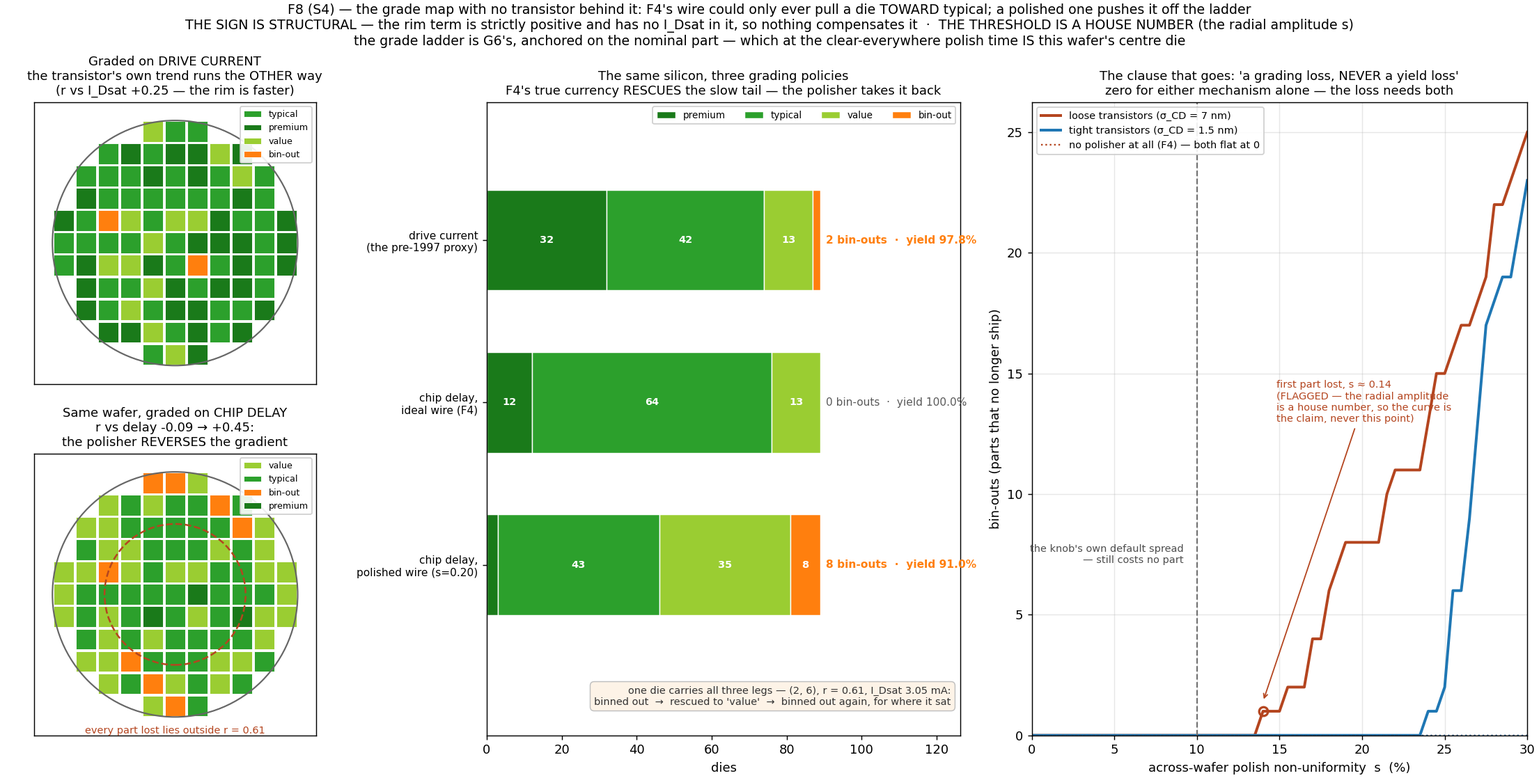
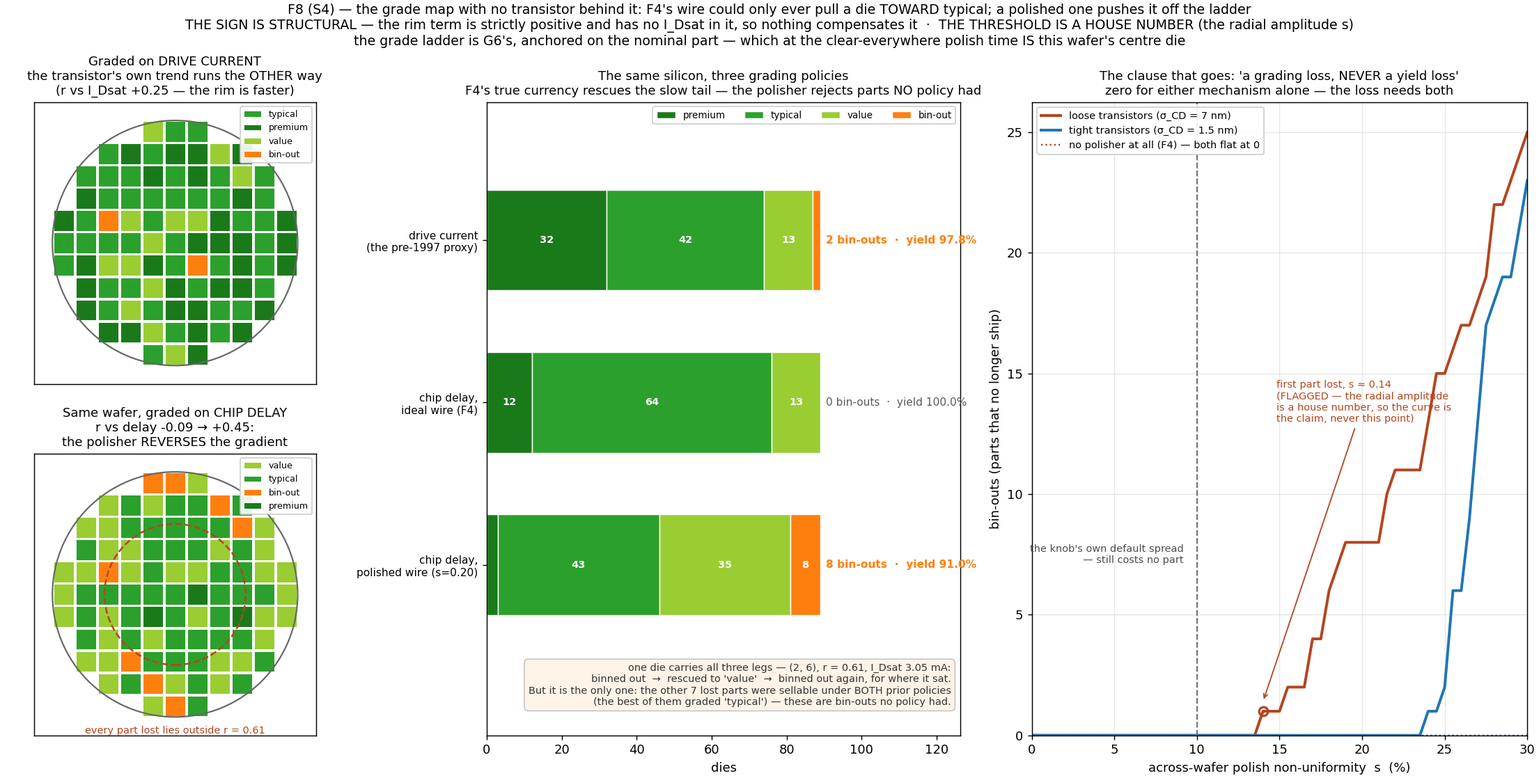
fix(fab-game,docs): F8-S4 — most of the loss is NOT F4's rescue being withdrawn
Correcting an overstatement in the previous commit, caught on review of the
slice's own probe data. The bolded claim "the polisher never rejects a fast
die; it withdraws the rescue from a slow one" is true of 1 of the 8 lost
parts. Under the old drive-current policy those 8 graded 6× value, 1× reject,
1× typical — so seven were sellable under BOTH prior policies, and one of them
was a typical part.

The real result is stronger than the one that was written: the polished wire
does not merely claw back the margin F4's common-mode wire gave the slow tail,
it creates bin-outs no grading policy had, out of parts the old policy called
good. Recorded as measured fields (n_lost_rescued_then_taken_back,
lost_prior_grades, best_prior_grade_lost) so the prose reads off the wafer.

Also corrected: "the intersection is what the polisher costs" stated a subset
as an identity — 37 dies are below nominal and 60 sit past r=0.61, so the loss
lives inside that intersection rather than being it.

test_the_polisher_never_rejects_a_fast_die_it_withdraws_a_rescue asserted only
"below nominal, out at the rim" under a name claiming the withdrawal. Split
into one test named for what it checks plus
test_most_of_the_loss_is_not_f4s_rescue_being_withdrawn, which pins the 1-vs-7
split, that the grades partition the loss, and that every lost part was
sellable under F4's currency.

Smaller fixes in the same pass: dropped an unused interconnect import; the
[…]

Changed region(s): [[0.3434, 0.8515, 0.6244, 0.9123], [0.3122, 0.0912, 0.6244, 0.1216]]

diff --git a/fab_game/demo_cmp_grading.py b/fab_game/demo_cmp_grading.py
@@ -30,10 +30,16 @@ that last column is the wafer yield the line reports. The wire now costs parts, 
 
 **Neither mechanism does it alone** — the F4-S4 shape one slice on. A *tight* transistor spread under the
 same polish loses nothing (0 bin-outs to ``s`` = 0.22); a *loose* spread with no polisher loses nothing
-either (F4 rescues both of its bin-outs). Only the two together lose parts, and every part lost was
-already a below-nominal transistor sitting out at the rim: **the polisher never rejects a fast die — it
-withdraws the rescue from a slow one.** Die ``(2, 6)`` carries the whole story alone: binned out under
-drive current, rescued to *value* by F4's ideal wire, rejected again by where it sat on the polisher.
+either (F4 rescues both of its bin-outs). Only the two together lose parts, and every part lost was a
+below-nominal transistor sitting out at the rim — though **neither condition selects them**: 37 dies are
+below nominal and 60 sit that far out, so the loss lives *inside* that intersection, not at it.
+
+**And it is not only F4's rescue being taken back.** Of the 8 parts lost, **1** was a bin-out under the
+drive-current policy too — that one is the rescue withdrawn, and die ``(2, 6)`` carries all three legs
+alone: binned out on drive current, rescued to *value* by F4's ideal wire, rejected again by where it sat
+on the polisher. The **other 7 were sellable under both prior policies**, and one of them
+(site ``(5, 10)``) was graded *typical*. So the polished wire does not merely claw back the margin F4's
+wire gave: **it creates bin-outs no grading policy had**, out of parts the old policy called good.
 
 **And it is not extra spread on top of the transistor's — it is the opposite sign.** The transistor has a
 weak radial trend of its own here (the focus bowl and the furnace's oxide trend leave the rim marginally
@@ -44,7 +50,7 @@ sit exactly where the transistor said the dies were fast.
 
 **The threshold is a house number, and is reported as one.** At the knob's default spread
 (``nonuniformity`` = 0.10) *no* part is lost even with the loose process — the first one goes at
-``s ≈ 0.13``. The *sign* is structural (a strictly positive, uncompensated term cannot rescue anything);
+``s ≈ 0.14``. The *sign* is structural (a strictly positive, uncompensated term cannot rescue anything);
 *where* it starts to bite rides the flagged radial amplitude, so the sweep panel draws the whole curve
 rather than quoting a number from one point on it.
 
@@ -66,7 +72,6 @@ from pathlib import Path
 import numpy as np
 
 from chip import cmp
-from chip import interconnect as ic
 
 from .pipeline import diagnose, run_line, wafer_yield
 from .recipe import CmpKnobs, DeviceKnobs, Recipe
@@ -125,6 +130,8 @@ class DemoResult:
     story_trail: str
     # The sweep — bin-outs vs the polish spread, for both process tightnesses (closed form, same calls).
     s_sweep: tuple[float, ...]
+    tight_sigma_nm: float                         # the two process tightnesses the curves are cut at
+    loose_sigma_nm: float
     rejects_loose: tuple[int, ...]
     rejects_tight: tuple[int, ...]
     rejects_loose_no_cmp: int                     # the F4 reference (flat, s-independent)
@@ -137,6 +144,9 @@ class DemoResult:
     first_reject_radius: float
     n_outside_first_reject_radius: int
     n_lost: int
+    n_lost_rescued_then_taken_back: int           # lost parts the drive-current policy had ALSO rejected
+    lost_prior_grades: dict                       # the lost parts' grades under the drive-current policy
+    best_prior_grade_lost: str                    # the highest grade the polisher took off the ladder
     # The wafer's speed gradient, before and after the polisher (the sign the transistor set).
     corr_r_idsat: float                           # radius vs drive current — the transistor's own trend
     corr_r_tau_f4: float                          # radius vs delay, ideal wire
@@ -252,6 +262,13 @@ def compute() -> DemoResult:
     #    parts on its own — the intersection does.
     lost = [d for d in w_f8.dies if d.bin == "reject"]
     r_first = min((d.radius_frac for d in lost), default=1.0)
+    # …and what the lost parts were worth BEFORE the polisher existed. Only the ones the drive-current
+    # policy had also rejected are "F4's rescue, taken back"; the rest are bin-outs no grading policy had.
+    prior = {}
+    for d in lost:
+        prior[b_i[d.site].bin] = prior.get(b_i[d.site].bin, 0) + 1
+    order = [b.label for b in SPEED_BINS.bins] + [SPEED_BINS.reject_label]
+    best_prior = min((g for g in prior), key=order.index, default=SPEED_BINS.reject_label)
 
     # 6. The wafer's speed gradient. The transistor has a weak radial trend of its OWN here (the focus
     #    bowl and the oxide trend leave the rim marginally faster), and it points the other way, so on the
@@ -270,7 +287,8 @@ def compute() -> DemoResult:
         yield_idsat=wafer_yield(w_idsat), yield_f4=wafer_yield(w_f4), yield_f8=wafer_yield(w_f8),
         story_site=story.site, story_radius=story.radius_frac, story_i_dsat_mA=story.i_dsat_mA,
         story_trail=diagnose(story),
-        s_sweep=S_SWEEP, rejects_loose=sweeps["loose"][0], rejects_tight=sweeps["tight"][0],
+        s_sweep=S_SWEEP, tight_sigma_nm=TIGHT_SIGMA, loose_sigma_nm=LOOSE_SIGMA,
+        rejects_loose=sweeps["loose"][0], rejects_tight=sweeps["tight"][0],
         rejects_loose_no_cmp=sweeps["loose"][1], rejects_tight_no_cmp=sweeps["tight"][1],
         first_loss_s_loose=_first_loss(sweeps["loose"][0]),
         first_loss_s_tight=_first_loss(sweeps["tight"][0]),
@@ -280,6 +298,8 @@ def compute() -> DemoResult:
         first_reject_radius=r_first,
         n_outside_first_reject_radius=sum(1 for d in w_f8.dies if d.radius_frac >= r_first),
         n_lost=len(lost),
+        n_lost_rescued_then_taken_back=prior.get(SPEED_BINS.reject_label, 0),
+        lost_prior_grades=prior, best_prior_grade_lost=best_prior,
         corr_r_idsat=_corr(radii, [d.i_dsat_mA for d in w_f8.dies]),
         corr_r_tau_f4=_corr([d.radius_frac for d in w_f4.dies], [d.delay_ps for d in w_f4.dies]),
         corr_r_tau_f8=_corr(radii, [d.delay_ps for d in w_f8.dies]),
@@ -313,12 +333,22 @@ def print_summary(r: DemoResult) -> None:
     print(f"     polisher, tight transistors       : {r.rejects_tight[r.s_sweep.index(r.s_shown)]} bin-outs "
           f"at s = {r.s_shown:.2f}")
     print(f"     both                              : {r.n_lost} bin-outs")
-    print(f"     → and every part lost was already below nominal AND out past r = "
-          f"{r.first_reject_radius:.2f}: "
-          f"{r.n_below_nominal} dies are below nominal, {r.n_outside_first_reject_radius} are out that far,")
-    print("       and the intersection is what the polisher costs. It never rejects a FAST die.\n")
+    print(f"     → every part lost was below nominal AND out past r = {r.first_reject_radius:.2f}, but "
+          f"neither condition selects them:")
+    print(f"       {r.n_below_nominal} dies are below nominal and {r.n_outside_first_reject_radius} sit "
+          f"that far out, so the loss lives INSIDE that intersection.")
+    print("       It never rejects a FAST die.\n")
 
-    print("  3. It is not extra spread on top of the transistor's — it is the OPPOSITE sign:")
+    grades = ", ".join(f"{n}× {g}" for g, n in sorted(r.lost_prior_grades.items(),
+                                                      key=lambda kv: -kv[1]))
+    print(f"  3. And it is not only F4's rescue being taken back. Under the OLD drive-current policy the "
+          f"{r.n_lost} lost parts graded: {grades}.")
+    print(f"     → {r.n_lost_rescued_then_taken_back} of them was the rescue withdrawn; the other "
+          f"{r.n_lost - r.n_lost_rescued_then_taken_back} were sellable under BOTH prior policies")
+    print(f"       (the best of them graded '{r.best_prior_grade_lost}'). The polished wire creates "
+          f"bin-outs NO grading policy had.\n")
+
+    print("  4. It is not extra spread on top of the transistor's — it is the OPPOSITE sign:")
     print(f"     radius vs drive current       : {r.corr_r_idsat:+.2f}  (the transistor's own trend — the "
           f"rim is marginally FASTER)")
     print(f"     radius vs delay, ideal wire   : {r.corr_r_tau_f4:+.2f}  (so the unpolished wafer is, if "
@@ -328,13 +358,13 @@ def print_summary(r: DemoResult) -> None:
     print("     → the parts it costs sit where the transistor said the dies were fast. Two radial")
     print("       signatures, opposite signs, and the one with no transistor in it wins.\n")
 
-    print(f"  4. The one die that carries it alone — site {r.story_site}, r = {r.story_radius:.2f}, "
+    print(f"  5. The one die that carries it alone — site {r.story_site}, r = {r.story_radius:.2f}, "
           f"I_Dsat {r.story_i_dsat_mA:.3f} mA:")
     print("     " + r.story_trail.replace("\n", "\n     ") + "\n")
 
     loose_first = "none in the sweep" if r.first_loss_s_loose is None else f"s ≈ {r.first_loss_s_loose:.2f}"
     tight_first = "none in the sweep" if r.first_loss_s_tight is None else f"s ≈ {r.first_loss_s_tight:.2f}"
-    print(f"  5. Where it starts to bite is a HOUSE NUMBER, so here is the whole curve, not a point:")
+    print(f"  6. Where it starts to bite is a HOUSE NUMBER, so here is the whole curve, not a point:")
     print(f"     loose process — first part lost at {loose_first};  tight process — {tight_first}.")
     print(f"     At the knob's own default (s = {S_HOUSE:.2f}) the polisher still costs NO part. The SIGN")
     print("     is structural (a strictly positive term with no I_Dsat in it cannot rescue anything);")

diff --git a/fab_game/tests/test_demo_cmp_grading.py b/fab_game/tests/test_demo_cmp_grading.py
@@ -83,15 +83,34 @@ def test_neither_mechanism_alone_loses_a_part(r):
     assert r.rejects_loose[i_shown] == r.n_lost > 0                    # both: parts lost
 
 
-def test_the_polisher_never_rejects_a_fast_die_it_withdraws_a_rescue(r):
-    """Every part lost was already below the nominal transistor AND out past the first-lost radius — and
-    neither condition selects them on its own (both counts are far larger than the loss)."""
+def test_the_polisher_never_rejects_a_fast_die_and_the_loss_sits_inside_an_intersection(r):
+    """Every part lost was below the nominal transistor AND out past the first-lost radius — but neither
+    condition *selects* them: both sets are far larger than the loss, so it is a subset of the
+    intersection, never the intersection itself."""
     lost = [d for d in r.wafer_f8.dies if d.bin == "reject"]
     assert len(lost) == r.n_lost
     for d in lost:
         assert d.i_dsat_mA < r.i_dsat_nom_mA                           # never a fast die
         assert d.radius_frac >= r.first_reject_radius                  # always out at the rim
     assert r.n_below_nominal > r.n_lost and r.n_outside_first_reject_radius > r.n_lost
+
+
+def test_most_of_the_loss_is_not_f4s_rescue_being_withdrawn(r):
+    """The sharper half of the finding, and the one the first draft of this slice got wrong: only the parts
+    the OLD drive-current policy also rejected are "the rescue taken back". The rest were sellable under
+    both prior policies, so the polished wire does not merely claw back F4's margin — it creates bin-outs
+    no grading policy had, out of parts the old policy called good."""
+    by_site = {d.site: d for d in r.wafer_idsat.dies}
+    lost = [d for d in r.wafer_f8.dies if d.bin == "reject"]
+    withdrawn = [d for d in lost if by_site[d.site].bin == "reject"]
+    assert len(withdrawn) == r.n_lost_rescued_then_taken_back
+    assert 0 < len(withdrawn) < len(lost)                              # some, but far from all
+    assert sum(r.lost_prior_grades.values()) == r.n_lost               # the grades partition the loss
+    assert r.best_prior_grade_lost != "reject"                         # at least one was a graded part…
+    assert r.lost_prior_grades.get(r.best_prior_grade_lost, 0) > 0
+    # …and every one of them was sellable under F4's currency, which is the policy F8 actually modifies.
+    f4 = {d.site: d for d in r.wafer_f4.dies}
+    assert all(f4[d.site].bin != "reject" for d in lost)
 
 
 def test_the_polisher_reverses_the_wafers_speed_gradient(r):
@@ -143,17 +162,16 @@ def test_the_trail_names_the_currency_that_graded_not_the_transistor(r):
 
 def test_the_figure_says_what_is_structural_and_what_is_a_house_number(r):
     """The words test — the golden pages confirm the prose did not CHANGE, never that it is still TRUE."""
-    pytest.importorskip("matplotlib")
+    matplotlib = pytest.importorskip("matplotlib")
+    matplotlib.use("Agg")                           # headless, as save_figure does
     from fab_game.plots import cmp_grading_figure
 
-    fig = cmp_grading_figure(r)
-    text = fig._suptitle.get_text()
+    text = cmp_grading_figure(r)._suptitle.get_text()
     assert "SIGN IS STRUCTURAL" in text and "HOUSE NUMBER" in text
     assert "anchored on the nominal part" in text
 
 
 def test_figure_builds(r):
-    pytest.importorskip("matplotlib")
-    from fab_game.plots import cmp_grading_figure
-
-    assert cmp_grading_figure(r) is not None
+    pytest.importorskip("matplotlib")               # the figure is not in the correctness path (ADR 0002)
+    from fab_game.demo_cmp_grading import save_figure
+    assert save_figure(r).is_file()

diff --git a/fab_game/plots.py b/fab_game/plots.py
@@ -1807,12 +1807,16 @@ def _policy_bars_panel(ax, result) -> None:
     ax.set_xlim(0, result.n_dies * 1.42)
     ax.set_xlabel("dies")
     ax.set_title("The same silicon, three grading policies\n"
-                 "F4's true currency RESCUES the slow tail — the polisher takes it back", fontsize=10)
+                 "F4's true currency rescues the slow tail — the polisher rejects parts NO policy had",
+                 fontsize=10)
     ax.legend(fontsize=7.5, loc="upper right", framealpha=0.9, ncol=4)
+    n_new = result.n_lost - result.n_lost_rescued_then_taken_back
     ax.text(0.98, 0.045,
             f"one die carries all three legs — {result.story_site}, r = {result.story_radius:.2f}, "
             f"I_Dsat {result.story_i_dsat_mA:.2f} mA:\nbinned out  →  rescued to 'value'  →  "
-            f"binned out again, for where it sat",
+            f"binned out again, for where it sat.\nBut it is the only one: the other {n_new} lost parts "
+            f"were sellable under BOTH prior policies\n(the best of them graded "
+            f"'{result.best_prior_grade_lost}') — these are bin-outs no policy had.",
             transform=ax.transAxes, ha="right", va="bottom", fontsize=8, color="0.2",
             bbox=dict(boxstyle="round,pad=0.4", facecolor="#fdf3e7", edgecolor="0.75", linewidth=0.8))
 
@@ -1821,9 +1825,9 @@ def _bin_out_sweep_panel(ax, result) -> None:
     """Bin-outs vs the polish spread: zero for either mechanism alone, and the threshold flagged as house."""
     s = np.asarray(result.s_sweep) * 100.0
     ax.plot(s, result.rejects_loose, color="#b4451f", lw=2.2,
-            label=f"loose transistors (σ_CD = {7.0:.0f} nm)")
+            label=f"loose transistors (σ_CD = {result.loose_sigma_nm:g} nm)")
     ax.plot(s, result.rejects_tight, color="#1f77b4", lw=2.2,
-            label=f"tight transistors (σ_CD = {1.5:.1f} nm)")
+            label=f"tight transistors (σ_CD = {result.tight_sigma_nm:g} nm)")
     ax.axhline(result.rejects_loose_no_cmp, color="#b4451f", lw=1.3, ls=":",
                label="no polisher at all (F4) — both flat at 0")
     ax.axhline(result.rejects_tight_no_cmp, color="#1f77b4", lw=1.3, ls=":")

diff --git a/memory/cmp-planarity-f8.md b/memory/cmp-planarity-f8.md
@@ -1,10 +1,10 @@
 ---
 name: cmp-planarity-f8
-description: "F8 CMP / planarity — S1 (module, the s/(1−s) law, the erosion-not-dishing finding) + S2 (the game knob: the wire's first per-die spread, the damascene refusal, the short graded by radius) + S3 (B11 demo: one transistor, many delays; the window closes; two levers and a non-lever); S4 open"
+description: "F8 CMP / planarity, COMPLETE (4 slices) — S1 the s/(1−s) law + erosion-not-dishing, S2 the game knob (the wire's first per-die spread), S3 the B11 demo, S4 the SECOND F4 clause to go (the polished wire costs PARTS, not just grades); card graduated"
 metadata:
   node_type: memory
   type: project
-  modified: 2026-09-02
+  modified: 2026-09-06
 ---
 
 **F8 = CMP / planarity**, plan at `docs/plans/cmp-planarity-f8.md`, historical mode reserved **B11**.
@@ -71,6 +71,44 @@ slotting / dummy fill over the cited 50–100 µm planarization length); **"poli
 the figure). The float knife-edge moved INTO `chip.cmp.polish` (the demo hit it too). Suptitle pins the
 enabling claim + the `s`-is-a-house-number flag.
 
-**S4** not pre-committed; after S3 the live candidates are (a) the scale gap made mechanical (the source's
-own planned sub-micron mask) or (b) the composition with the game's grading (a banked "grading by position"
-artifact). Card graduates with it.
+**S4 BUILT 2026-09-06** — candidate (b), the composition with the game's grading
+(`fab_game/demo_cmp_grading.py` → `fab-game-f8.png`, the `F8` gallery card, `test_demo_cmp_grading.py`
+14 tests). **It ends a SECOND F4 clause.** F4 concluded *"a grading loss, never a yield loss"* because
+`DelayBins.from_speed_bins` compresses **symmetrically**: a die at a bin edge sits `τ_wire·(1−I_nom/I_edge)`
+off it — positive above nominal, **negative below**, so the slow tail is RESCUED from the bin-out. Derived
+under the same premise S2 killed. The polished rim carries `τ_wire·(R/R_nom−1)`: strictly positive, no
+`I_Dsat` in it ⇒ **the sign is structural, only the size is a house number.**
+
+1. **One wafer, three policies, and a bin-out IS a yield fail here** (`packaging_step` flips the verdict;
+   `wafer_yield` counts verdicts). Loose CD control, 89 dies: drive current **2** bin-outs (0.978) → F4's
+   true currency **0** (1.000) → polished at s=0.20 **8** (0.910). Transistors byte-identical across all
+   three (CMP draws no randomness) ⇒ one `I_Dsat` histogram, three outcomes.
+2. **Neither mechanism alone.** Tight transistors + the same polish: 0 (to s=0.22). Loose + no polisher: 0.
+   Only together. Lost parts are below nominal AND past r=0.61 — but 37 are below nominal and 60 sit that
+   far out, so the loss is a **subset of** that intersection, never the intersection.
+3. **THE CORRECTION THAT MATTERS (advisor caught it; my own probe data contradicted my bolded claim).**
+   "It withdraws the rescue from a slow die" is true of **1 of the 8**. The other **7 were sellable under
+   BOTH prior policies**, one graded `typical`. The real — stronger — result: the polished wire **creates
+   bin-outs no grading policy had**, out of parts the old policy called good. The first test's *name*
+   claimed the withdrawal while its *body* only checked "below nominal, out at the rim".
+4. **Not extra spread — the OPPOSITE sign.** The transistor's own radial trend leaves the rim marginally
+   faster (r vs `I_Dsat` **+0.25**), so unpolished the delay gradient is **−0.09**; polished, **+0.45**.
+   The polisher **reverses the wafer's speed gradient**; the parts it costs sit where the transistor said
+   the dies were fast. Not predicted — found by measuring.
+5. **The threshold is drawn, not quoted.** At the knob's default s=0.10 the polisher costs NO part; first
+   loss at s≈0.14 loose, ≈0.24 tight. Cranking `s` until one fell off = the `DISH_SCALE`/F5-S3
+   flattering-direction trap.
+6. **The anchor dissolves at the clear time** — `from_speed_bins` warns hand-picked ps edges manufacture
+   the collapse, so the ladder is G6's fractions on the **nominal part**, which at the clear-everywhere
+   time **is** the centre die (S2's seam). Two candidate anchors, one object.
+7. **Live finding fixed here:** `pipeline.diagnose` hardcoded every bin-out as *"I_Dsat too low…"* — under
+   delay grading that credits the TRANSISTOR with a failure the WIRE caused, the exact inverse of the
+   thesis. Now forks on the packaging record's `tau_total_ps`.
+8. **The sweep is a closed form pinned against the pipeline** (60 wafer runs ≈ 15 s of fast lane): each
+   die's recorded `τ_gate`/`τ_wire` re-read at the polished thickness, exact because `τ_wire ∝ R` and `C`
+   never reads `H` (F4's cited invariance). Pinned at two spreads.
+
+`chip/` untouched by S4 entirely; `device.py`/`interconnect.py` untouched for the **fifth** consecutive
+slice. **Card graduated** — and with it the roadmap's *promotable* section is now **EMPTY**, rendering its
+emptiness rather than being deleted: nothing left has both a released gate and a named consumer, so the
+next slice is a **re-triage**, not a pick off the top (see [[roadmap-page]]).

diff --git a/memory/MEMORY.md b/memory/MEMORY.md
@@ -38,7 +38,7 @@ the topic file and cut the line back (this index has a hard read limit).
 - [Historical-modes B7](historical-modes-b7.md) — **project (2026-07-10):** F2 silicide/contact-R, built as B7 (`contact_resistance.py`) — `R_series` = **two terms, different `R_sh` exponents**: access LINEAR + TLM contact SUBLINEAR. Salicide shunts the sheet → bottleneck flips access→contact. Robust leg = contact-share↑ as `R_sh`↓; the flip is calibrated.
 - [High-κ gate F3](high-k-gate-f3.md) — **project (2026-07-15 → COMPLETE 2026-07-17, 4 slices; card PULLED):** one thickness, two currencies — `C_ox` LINEAR in EOT vs `J_g` EXPONENTIAL in `t_phys`. **`device.py` untouched: `ε_SiO₂/EOT ≡ ε₀κ/t_phys` is an IDENTITY.** κ↔gap INVERSE ⇒ per-material `α∝√(m*φ_B)`. S4 = the **IL**: both currencies **additive over series layers** ⇒ the IL is the *better barrier* yet **a pure loss** (capacitance-only flips the sign); floor `EOT>t_IL` for ANY κ. (F4 shipped after it; then [[strained-silicon-f5]] was chosen over F8.)
 - [Strained silicon F5](strained-silicon-f5.md) — **project (2026-08-10 → COMPLETE, 4 slices; card GRADUATED, F8 inherits the queue):** chosen over F8 (whose remaining gate is a *refactor*). `µ` = the one `I_Dsat` factor no process ever moved. Seam **predates** the slice (`mu_eff` defaulted since P4 ⇒ `device.py` untouched, 4th slice running). Carrier fork → **enhancement factors**, wired leg = nMOS tensile. Elasticity bound **≈0.5 cited on both carriers** ⇒ drive read is an UPPER BOUND, no elasticity knob. **S2 = the 1st NON-additive knob** (re-grades the wafer alone — F4 needed the pair); common-mode × ⇒ it's the LADDER moving, and the win **costs yield** (89/89 → 77/89). **S3 = B10** (slotted B8→B10→B6, process order): the **flattering-direction trap** at the *figure* layer, the structural zero under it, and the period that is a POINT not a curve. **S4 = the finale**: bracket-not-a-curve, the model blind to the decay by construction, and a house helper (`nodes_bought`) that carried the WRONG slice's denominator. Live: a published card's gate was already false.
-- [CMP / planarity F8](cmp-planarity-f8.md) — **project (2026-08-19 → S3 2026-09-02; S4 open, card graduates with it):** the step upstream of F4's wire. S1: `s/(1−s)` forced overpolish (no constant; 0 at s=0 ⇒ fix = UNIFORMITY never polish-less), V barred by the kinematic identity ⇒ P carries the radius, sub-micron loss is EROSION (dishing exactly 0), `DISH_SCALE` a quarantined calibration. S2: the wire's first per-die spread (one transistor, many delays), damascene-only refusal (`DAMASCENE_METALS`), short graded by radius in closed form, grading by position. S3 = B11 (one transistor, many delays; s_crit; two levers + "polish less" is NOT a lever). Gate was FALSE on re-check (3rd time).
+- [CMP / planarity F8](cmp-planarity-f8.md) — **project (2026-08-19 → COMPLETE 2026-09-06, 4 slices; card GRADUATED):** the step upstream of F4's wire. S1: `s/(1−s)` forced overpolish (no constant; 0 at s=0 ⇒ fix = UNIFORMITY never polish-less), V barred by the kinematic identity ⇒ P carries the radius, sub-micron loss is EROSION (dishing exactly 0), `DISH_SCALE` a quarantined calibration. S2: the wire's first per-die spread (one transistor, many delays), damascene-only refusal (`DAMASCENE_METALS`), short graded by radius in closed form, grading by position. S3 = B11 (one transistor, many delays; s_crit; two levers + "polish less" is NOT a lever). **S4 = the 2nd F4 clause to go**: the polished wire costs PARTS (2→0→8 bin-outs), neither mechanism alone, and it REVERSES the wafer's speed gradient. My bolded "withdraws the rescue" was TRUE OF 1 OF 8 — corrected to the stronger real result. Gate was FALSE on re-check (3rd time); the roadmap's promotable section is now EMPTY.
 - [Historical-modes H0](historical-modes-h0.md) — **project (2026-07-10):** the **era-timeline display surface** (`history_gallery.py` → `docs/history.html`+`.local`, the 3rd gallery) — `demo_*_history.py` figures re-cut along the spine (period→wall→successor); glob-anchored.
 
 ## Implant (F1)

diff --git a/docs/plans/cmp-planarity-f8.md b/docs/plans/cmp-planarity-f8.md
@@ -330,9 +330,17 @@ literally does not exist without F8. Period → wall → successor, glob-anchore
   randomness), so one `I_Dsat` histogram produces three outcomes.
 * **Neither mechanism alone loses a part** — the F4-S4 shape one slice on. Tight transistors under the
   same polish: 0 bin-outs (to `s = 0.22`). Loose transistors with no polisher: 0 (F4 rescues them). Only
-  the two together. And every part lost was **already below nominal** *and* out past `r = 0.61`, while 37
-  dies are below nominal and 60 are out that far — the intersection is the loss. **The polisher never
-  rejects a fast die; it withdraws the rescue from a slow one.**
+  the two together. Every part lost was **below nominal** *and* out past `r = 0.61` — but neither
+  condition **selects** them: 37 dies are below nominal and 60 sit that far out, so the loss is a
+  **subset of** that intersection, not the intersection itself. **The polisher never rejects a fast die.**
+* **And most of the loss is not F4's rescue being withdrawn — the first draft of this slice said it was,
+  and the wafer says otherwise.** Of the 8 parts lost, **1** had also been a bin-out under the
+  drive-current policy; that one is the rescue taken back (die `(2, 6)`, which carries all three legs
+  alone). The **other 7 were sellable under both prior policies**, and one — site `(5, 10)` — had graded
+  **`typical`**. So the polished wire does not merely claw back the margin F4's wire gave: **it creates
+  bin-outs no grading policy had**, out of parts the old policy called good. The test that pins this is
+  named for what its body checks, after the first version asserted only "below nominal, out at the rim"
+  under a name claiming the withdrawal.
 * **It is not extra spread on top of the transistor's — it is the opposite sign.** The transistor has a
   weak radial trend of its own here (focus bowl + oxide trend leave the rim marginally *faster*: radius vs
   `I_Dsat` **+0.25**), so the unpolished wafer's delay is, if anything, faster outward (**−0.09**).

diff --git a/memory/roadmap-page.md b/memory/roadmap-page.md
@@ -36,7 +36,20 @@ Two additions to the docs surface:
 
 **The graduation rule:** when a slice ships, its card comes OFF the roadmap (remove from
 `SLICES` + `FIGURES`, delete the `roadmap-*.png`) and its real demo joins the galleries — the
-manifest↔registry sync test forces this to happen together.
+manifest↔registry sync test forces this to happen together. **Fired four times:** F3 (2026-07-17),
+F4 and F5 (both 2026-08-10), F8 (2026-09-06).
+
+**THE PROMOTABLE SECTION IS NOW EMPTY (2026-09-06), and it RENDERS its emptiness** — `render_html`
+emits the heading + sub-text with no card grid rather than dropping the section, because a roadmap
+that silently loses its "ready to build" heading reads as if the question was never asked. Nothing
+left on the page has *both* a released gate and a named consumer, so the next slice is a
+**re-triage**, not a pick off the top.
+
+**The gate-vs-reality rule has now fired THREE times** — F8's own card (found 2026-08-19), F5's
+(2026-08-10), and F8's again at build. Every time it was found by someone *going to build the
+slice*, never by a test: nothing pins gate↔reality (the manifest guard pins card↔schematic and the
+golden tests pin page↔renderer, so between them they confirm the prose did not CHANGE, never that
+it is still TRUE). ⇒ **re-check a slice's gate against the tree before building it.**
 
 Related: [[scope-edge-backlog]] (B1 gates F9), [[historical-modes-b5]] (F7's built half),
 [[historical-modes-b7]] (F2 already built → not on the roadmap), [[gallery-local-edition]].

diff --git a/docs/plans/future-steps.md b/docs/plans/future-steps.md
@@ -98,8 +98,10 @@ isolation is implicit; interconnect stops at the transistor terminals; the gate 
    from the bin-out. A polished wire adds a strictly positive term with no `I_Dsat` in it, so the rescue
    can be cancelled. On one wafer: **2** bin-outs under the old drive-current policy → **0** under F4's
    currency → **8** with a real polisher (yield 0.978 → 1.000 → 0.910). Neither the transistor tail nor
-   the polisher costs a part alone, every part lost was a below-nominal transistor at the rim, and the
-   polisher does not add a signature alongside the transistor's — it **reverses** the wafer's speed
+   the polisher costs a part alone. And only **1** of those 8 was the rescue being withdrawn — the other
+   **7 were sellable under both prior policies**, one of them graded *typical*, so the polished wire
+   creates bin-outs **no** grading policy had rather than merely clawing back F4's margin. Nor does it
+   add a signature alongside the transistor's — it **reverses** the wafer's speed
    gradient (radius vs delay −0.09 → +0.45), so the parts it costs sit where the transistor said the dies
    were fast. At the knob's default spread it still costs nothing: the sign is structural, the threshold
    is a house number, and the figure draws the curve rather than quoting the point. The card graduated
